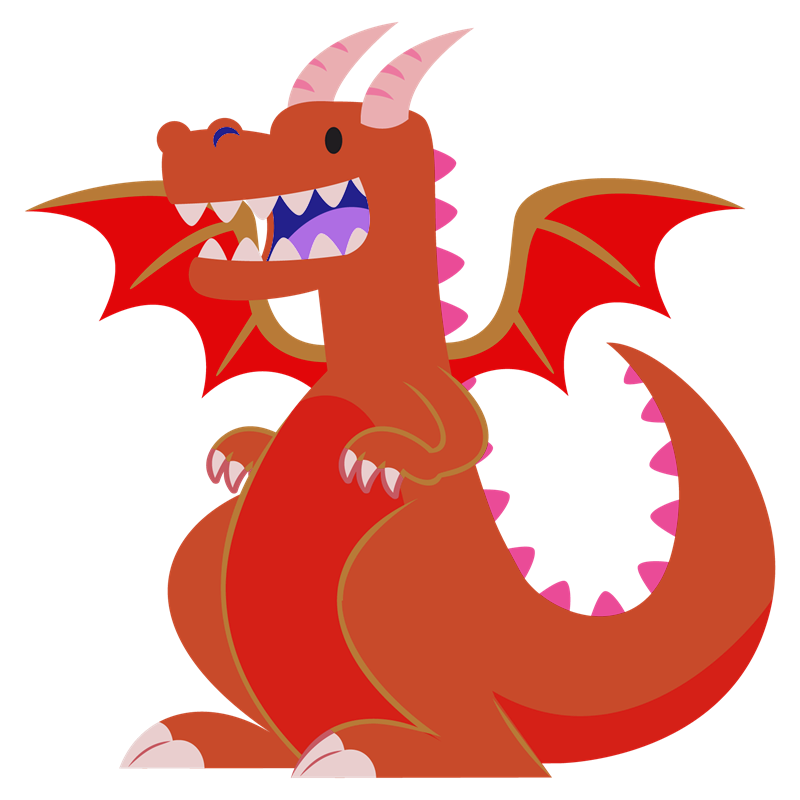
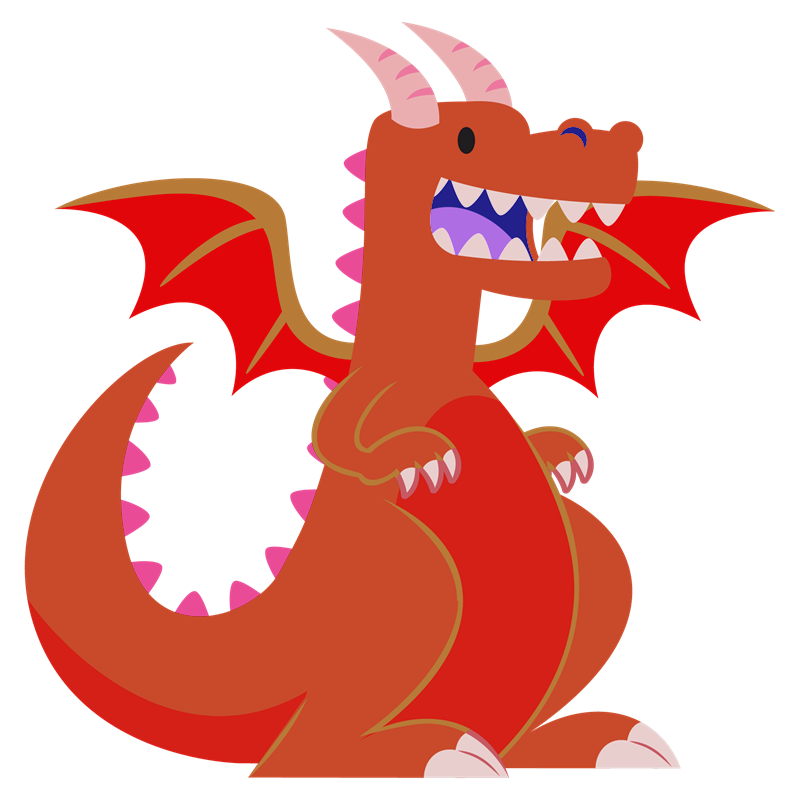
Update Transform

diff --git a/Production/DragonAttack/DragonAttack/Dragon.cpp b/Production/DragonAttack/DragonAttack/Dragon.cpp
@@ -39,18 +39,20 @@ void Dragon::Update()
   if (Dir.L)
   {
     PosX -= Speed;
-    Transform_.SetScale(1.0f, 1.0f).SetTranslate(PosX, PosY);
+    Transform_.SetScale(-1.0f, 1.0f);
   }
   if (Dir.R)
   {
     PosX += Speed;
-    Transform_.SetScale(-1.0f, 1.0f).SetTranslate(PosX, PosY);
+    Transform_.SetScale(1.0f, 1.0f);
   }
+  Transform_.SetTranslate(PosX, PosY);
   if (Dir.UP)
     PosY += 30.0f;
   PosY -= Gravity;
   if (PosY <= 0.0f)
     PosY = 0.0f;
+  Transform_.Concat();
   //Check if attack has been made
   if (Attack)
   {
@@ -80,6 +82,7 @@ void Dragon::Update()
         Fireball[i].Transform_.SetTranslate(Fireball[i].PosX, Fireball[i].PosY);
         Fireball[i].Collision_.Update_Col_Pos(Fireball[i].PosX, Fireball[i].PosY);
         Fireball[i].AddDist(Fireball[i].GetVelocity().x);
+        Fireball[i].Transform_.Concat();
       }
       else
       {
@@ -87,6 +90,7 @@ void Dragon::Update()
         Fireball[i].Transform_.SetTranslate(Fireball[i].PosX, Fireball[i].PosY);
         Fireball[i].Collision_.Update_Col_Pos(Fireball[i].PosX, Fireball[i].PosY);
         Fireball[i].AddDist(Fireball[i].GetVelocity().x);
+        Fireball[i].Transform_.Concat();
       }
     }
     else

diff --git a/Production/DragonAttack/DragonAttack/Transform.h b/Production/DragonAttack/DragonAttack/Transform.h
@@ -32,6 +32,10 @@ public:
   Transform &SetRotation(const float &Deg);
   //Sets the scale matrix and applies it to the matrix
   Transform &SetScale(float scaleX, float scaleY);
+  void Concat() { 
+    AEMtx33Concat(&Matrix, &S_Matrix, &R_Matrix); 
+    AEMtx33Concat(&Matrix, &T_Matrix, &Matrix);
+  }
   float GetDeterminant() { return AEMtx33Determinant(&Matrix); }
   float GetDegree() const { return Degree; }
   AEMtx33 GetMatrix() const { return Matrix; }
@@ -39,15 +43,17 @@ public:
   AEMtx33 GetScaleMatrix() const { return T_Matrix; }
   //Sets all matrices to the Identity Matrix
   Transform()
-    :Matrix{ 0.0f }, T_Matrix{ 0.0f }, S_Matrix{ 0.0f }, Degree{ 0.0f }
+    :Matrix{ 0.0f }, T_Matrix{ 0.0f }, S_Matrix{ 0.0f }, R_Matrix{ 0.0f }, Degree{ 0.0f }
   {
     AEMtx33Identity(&Matrix);
     AEMtx33Identity(&T_Matrix);
+    AEMtx33Identity(&R_Matrix);
     AEMtx33Identity(&S_Matrix);
   }
 private:
   AEMtx33 Matrix;   //Resultant matrix
   AEMtx33 T_Matrix; //Translation matrix
+  AEMtx33 R_Matrix; //Scale matrix
   AEMtx33 S_Matrix; //Scale matrix
   float Degree;     //Rotation in degrees
 };

diff --git a/Production/DragonAttack/DragonAttack/Transform.cpp b/Production/DragonAttack/DragonAttack/Transform.cpp
@@ -20,20 +20,18 @@ Technology is prohibited.
 Transform& Transform::SetTranslate(float posX, float posY)
 {
   AEMtx33Trans(&T_Matrix, posX, posY);
-  AEMtx33TransApply(&Matrix, &T_Matrix, 0.0f, 0.0f);
   return *this;
 }
 //Sets the degrees to rotate and applies it to the matrix
 Transform& Transform::SetRotation(const float &Deg)
 {
   Degree = Deg;
-  AEMtx33RotDeg(&Matrix, Degree);
+  AEMtx33RotDeg(&R_Matrix, Degree);
   return *this;
 }
 //Sets the scale matrix and applies it to the matrix
 Transform& Transform::SetScale(float scaleX, float scaleY)
 {
   AEMtx33Scale(&S_Matrix, scaleX, scaleY);
-  AEMtx33ScaleApply(&Matrix, &S_Matrix, 1.0f, 1.0f);
   return *this;
 }

diff --git a/Production/DragonAttack/DragonAttack/Dragon.h b/Production/DragonAttack/DragonAttack/Dragon.h
@@ -47,7 +47,7 @@ public:
       Fireball.push_back(Projectile{ S_CreateSquare(50.0f, 1.0f, 1.0f, "fireball.png"),
                                     Col_Comp{ 0.0f, 0.0f, 50, Circle } });
     for (int i = 0; i < 5; ++i)
-      Fireball[i].SetVelocity(AEVec2{ 10.0f, 0.0f }).Sprite_.SetAlphaTransBM(1.0f, 1.0f, AE_GFX_BM_BLEND);
+      Fireball[i].SetVelocity(AEVec2{ 20.0f, 0.0f }).Sprite_.SetAlphaTransBM(1.0f, 1.0f, AE_GFX_BM_BLEND);
     Mfireball.SetVelocity(AEVec2{ 5.0f, 0.0f }).Sprite_.SetAlphaTransBM(1.0f, 1.0f, AE_GFX_BM_BLEND);
   }
 private:

diff --git a/Production/DragonAttack/DragonAttack/Projectile.h b/Production/DragonAttack/DragonAttack/Projectile.h
@@ -13,7 +13,7 @@ public:
   bool GetDir() const { return Direction; }
   Projectile() = default;
   Projectile(Sprite &&t_sprite, Col_Comp &&t_col)
-    :GameObject{ std::move(t_sprite), std::move(t_col) }, Distance{ 0.0f }, Direction{ false }
+    :GameObject{ std::move(t_sprite), std::move(t_col) }, Distance{ 0.0f }, Direction{ true }
   {}
 private:
   bool Direction; //TRUE = Right; FALSE = Left
